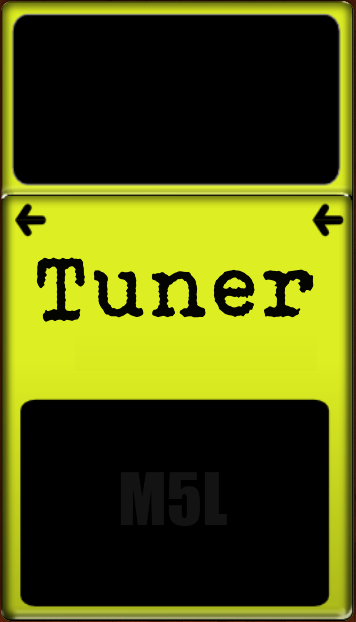
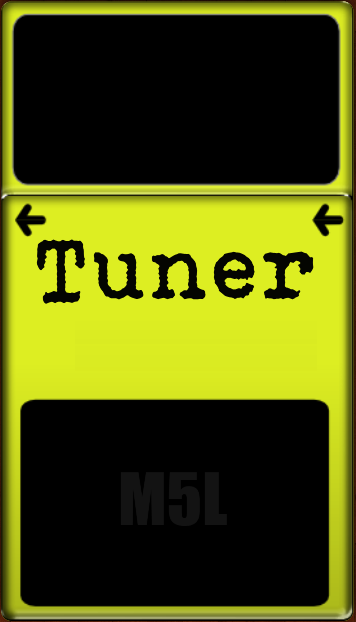
GT500_1002

Changed region(s): [[0.0927, 0.3666, 0.4017, 0.5193], [0.4326, 0.3971, 0.7107, 0.5193], [0.7416, 0.3971, 0.8961, 0.5193]]

diff --git a/www/js/index.js b/www/js/index.js
@@ -60,8 +60,10 @@ var ratioH = aspectRatio.substring(res+1);
 
 
 /* tamaño inicial pedal */
-var iniX = document.getElementById('pedal').height;
-var iniY = document.getElementById('pedal').width;
+//var iniX = document.getElementById('pedal').height;
+var widthIni = document.getElementById('pedal').width;
+var widthFin = document.getElementById('pedal').width;
+
 var w = window.innerWidth - 10;
 var h = window.innerHeight - 10;
 
@@ -77,10 +79,11 @@ var btnOfOff_Y = document.getElementById('btnExit').height;
 
 var sWidth = w ; //screen.width;
 var sHeight = h; //screen.height;
-document.getElementById('btnExit').height = btnOfOff_Y * (ratioW/ratioH);
+document.getElementById('btnExit').height = sHeight - (sHeight / 2); //btnOfOff_Y * (ratioW/ratioH);
 document.getElementById('btnExit').width = sWidth;
 
 /* Posicionar boton On/off */
+//var topbtnExit = sHeight - document.getElementById('btnExit').height;
 var topbtnExit = sHeight - document.getElementById('btnExit').height;
 document.getElementById('divOnOff').style.top = topbtnExit + "px";
 
@@ -118,8 +121,7 @@ document.getElementById('btnExit').addEventListener('touchend',function(event) {
     startTime = null;
     endTime = null;
 
-    alert(touchTime);
-    if (touchTime > 3) {
+    if (touchTime > 350) {
         touchTime = null;
         var r = confirm("Exit application?");
         if (r == true) {
